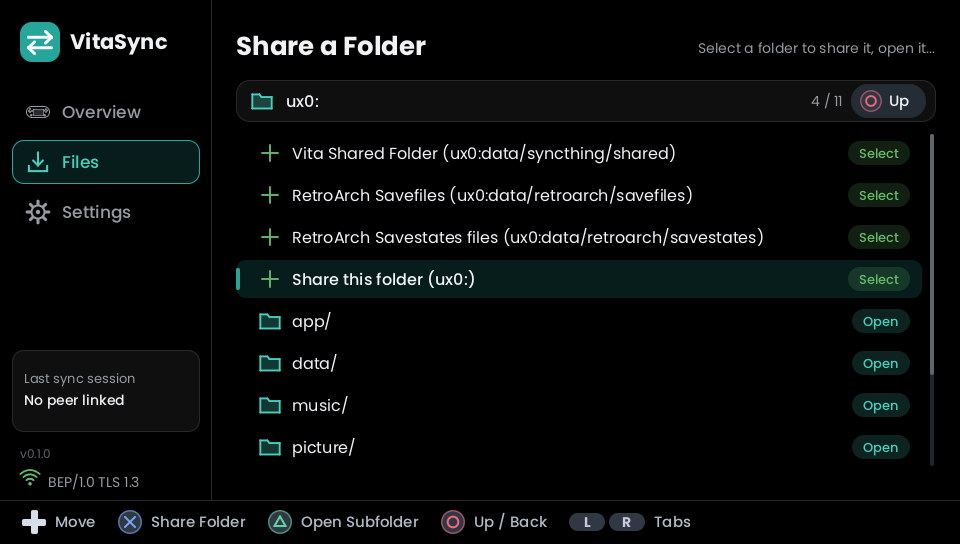
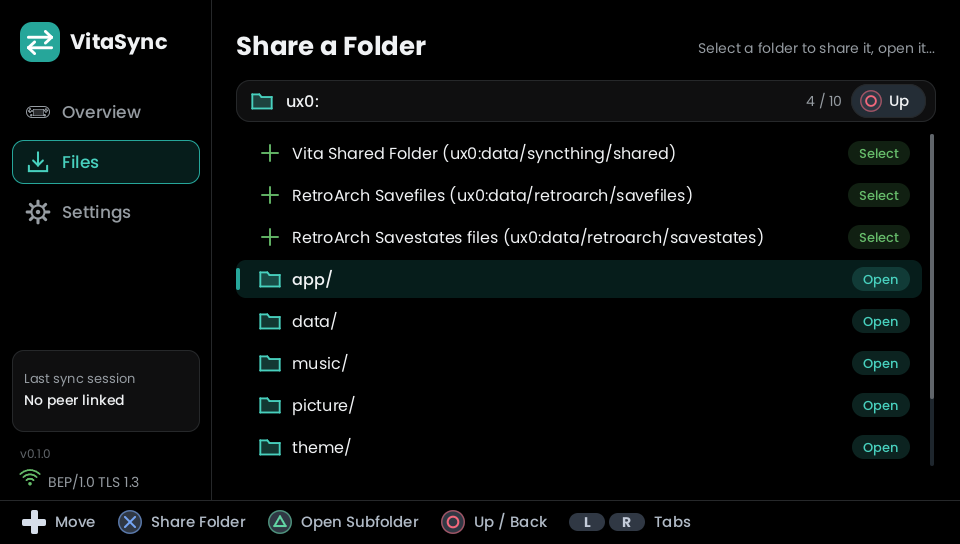
Remove the Files tab 'Share this folder' row
Selecting a folder row already shares it; the presets now open the list.

Claude-Session: https://claude.ai/code/session_015EANpC6fwbccGprydTxXwP

diff --git a/crates/vita-syncthing-app/tests/share_creation.rs b/crates/vita-syncthing-app/tests/share_creation.rs
@@ -74,7 +74,7 @@ fn test_reopening_existing_share_never_discards_it() {
 #[test]
 fn test_selecting_a_folder_in_files_tab_starts_share_creation() {
     use vita_syncthing_app::domain::{ActiveTab, PickerMode};
-    use vita_syncthing_app::infrastructure::{BTN_DOWN, BTN_R, BTN_RIGHT};
+    use vita_syncthing_app::infrastructure::{BTN_R, BTN_RIGHT};
 
     let dir = temp_test_dir("files-tab-create");
     std::fs::create_dir_all(format!("{}/saves", dir)).unwrap();
@@ -85,13 +85,12 @@ fn test_selecting_a_folder_in_files_tab_starts_share_creation() {
     press(&mut state, &repo, BTN_R);
     assert_eq!(state.active_tab, ActiveTab::FolderPicker);
     assert_eq!(state.picker_mode, PickerMode::CreateNewShare);
-    assert_eq!(state.picker_items[1].path, format!("{}/saves", dir));
+    assert_eq!(state.picker_items[0].path, format!("{}/saves", dir));
 
     // Right enters page content from sidebar
     press(&mut state, &repo, BTN_RIGHT);
 
     // Cross on the "saves/" folder opens device linking for a new pending share
-    press(&mut state, &repo, BTN_DOWN);
     press(&mut state, &repo, BTN_CROSS);
     assert_eq!(state.active_tab, ActiveTab::Dashboard);
     assert_eq!(state.shares.len(), 1);
@@ -109,8 +108,6 @@ fn test_selecting_a_folder_in_files_tab_starts_share_creation() {
 #[test]
 fn test_already_shared_folders_are_not_selectable_in_files_tab() {
     use vita_syncthing_app::domain::{ActiveTab, PickerMode};
-    use vita_syncthing_app::infrastructure::BTN_DOWN;
-
     let dir = temp_test_dir("files-tab-shared");
     let repo = ConfigRepository::new(&dir);
     let mut state = AppState::new(Vec::new(), Vec::new(), &dir);
@@ -122,12 +119,10 @@ fn test_already_shared_folders_are_not_selectable_in_files_tab() {
     state.reset_nav_for_tab();
     state.nav.focus = vita_syncthing_app::domain::NavFocus::Content;
     ShareService::refresh_picker_items(&mut state, &repo);
-    assert_eq!(state.picker_items[1].path, saves);
-    assert!(state.picker_items[1].is_shared);
-    assert!(!state.picker_items[0].is_shared);
+    assert_eq!(state.picker_items[0].path, saves);
+    assert!(state.picker_items[0].is_shared);
 
     // Neither selecting nor opening the shared folder does anything
-    press(&mut state, &repo, BTN_DOWN);
     press(&mut state, &repo, BTN_CROSS);
     press(&mut state, &repo, BTN_TRIANGLE);
     assert_eq!(state.modal, ModalDialog::None);
@@ -166,9 +161,10 @@ fn test_default_share_presets_are_listed_first_at_files_root() {
         assert_eq!(item.path, *path);
         assert!(item.is_preset && item.template.is_some() && !item.is_shared);
     }
-    // Then "Share this folder" for the browsed root.
-    assert_eq!(state.picker_items[presets.len()].path, "ux0:");
-    assert!(state.picker_items[presets.len()].template.is_none());
+    // Then the root's subfolders, without a "Share this folder" row.
+    assert!(state.picker_items[presets.len()..]
+        .iter()
+        .all(|i| i.template.is_none() && !i.is_preset));
 
     // Presets are not repeated in subfolders.
     state.picker_current_dir = dir.clone();

diff --git a/crates/vita-syncthing-app/src/ui/i18n/messages.rs b/crates/vita-syncthing-app/src/ui/i18n/messages.rs
@@ -114,8 +114,6 @@ pub struct Messages {
     /// `{label}`, `{path}`.
     pub picker_template: &'static str,
     /// `{path}`.
-    pub picker_share_this_folder: &'static str,
-    /// `{path}`.
     pub picker_keep_current: &'static str,
     /// `{path}`.
     pub picker_save_data: &'static str,
@@ -267,9 +265,6 @@ impl Strings {
             UiText::SharedWith { devices } => fill(m.shared_with, &[("devices", devices)]),
             UiText::PickerTemplate { label, path } => {
                 fill(m.picker_template, &[("label", label), ("path", path)])
-            }
-            UiText::PickerShareThisFolder { path } => {
-                fill(m.picker_share_this_folder, &[("path", path)])
             }
             UiText::PickerKeepCurrent { path } => fill(m.picker_keep_current, &[("path", path)]),
             UiText::PickerSaveData { path } => fill(m.picker_save_data, &[("path", path)]),

diff --git a/crates/vita-syncthing-app/tests/ui_text.rs b/crates/vita-syncthing-app/tests/ui_text.rs
@@ -105,7 +105,6 @@ fn all_messages() -> Vec<UiText> {
             label: s("RetroArch Savefiles"),
             path: s("ux0:"),
         },
-        UiText::PickerShareThisFolder { path: s("ux0:") },
         UiText::PickerKeepCurrent { path: s("ux0:") },
         UiText::PickerSaveData { path: s("ux0:") },
         UiText::PickerPictures { path: s("ux0:") },
@@ -165,8 +164,8 @@ fn test_messages_are_translated_and_parameters_filled() {
         "Langue : Italiano"
     );
     assert_eq!(
-        fr.text(&UiText::PickerShareThisFolder { path: s("ux0:") }),
-        "Partager ce dossier (ux0:)"
+        fr.text(&UiText::PickerKeepCurrent { path: s("ux0:") }),
+        "Garder le dossier actuel (ux0:)"
     );
     // Data is shown as-is in every language
     assert_eq!(fr.text(&UiText::raw("picture/")), "picture/");

diff --git a/crates/vita-syncthing-app/src/application/share_service.rs b/crates/vita-syncthing-app/src/application/share_service.rs
@@ -472,17 +472,7 @@ impl ShareService {
             .unwrap_or_else(|| "ux0:user/00/savedata".to_owned());
 
         let mut items = if state.picker_mode == PickerMode::CreateNewShare {
-            let mut items = Self::unshared_template_items(state);
-            items.push(PickerItem {
-                label: UiText::PickerShareThisFolder {
-                    path: state.picker_current_dir.clone(),
-                },
-                path: state.picker_current_dir.clone(),
-                is_preset: true,
-                template: None,
-                is_shared: false,
-            });
-            items
+            Self::unshared_template_items(state)
         } else {
             vec![
                 PickerItem {

diff --git a/crates/vita-syncthing-app/src/ui/i18n/es.rs b/crates/vita-syncthing-app/src/ui/i18n/es.rs
@@ -272,7 +272,6 @@ pub static MESSAGES_ES: Messages = Messages {
     no_devices_linked: "Ningún dispositivo vinculado (Cruz para añadir uno)",
     shared_with: "Compartida con: {devices}",
     picker_template: "{label} ({path})",
-    picker_share_this_folder: "Compartir esta carpeta ({path})",
     picker_keep_current: "Mantener la carpeta actual ({path})",
     picker_save_data: "Datos guardados ({path})",
     picker_pictures: "Imágenes de PS Vita ({path})",

diff --git a/crates/vita-syncthing-app/src/ui/i18n/it.rs b/crates/vita-syncthing-app/src/ui/i18n/it.rs
@@ -274,7 +274,6 @@ pub static MESSAGES_IT: Messages = Messages {
     no_devices_linked: "Nessun dispositivo collegato (Croce per aggiungerne uno)",
     shared_with: "Condivisa con: {devices}",
     picker_template: "{label} ({path})",
-    picker_share_this_folder: "Condividi questa cartella ({path})",
     picker_keep_current: "Mantieni la cartella attuale ({path})",
     picker_save_data: "Salvataggi ({path})",
     picker_pictures: "Immagini PS Vita ({path})",

diff --git a/crates/vita-syncthing-app/src/ui/i18n/fr.rs b/crates/vita-syncthing-app/src/ui/i18n/fr.rs
@@ -276,7 +276,6 @@ pub static MESSAGES_FR: Messages = Messages {
     no_devices_linked: "Aucun appareil lié (Croix pour ajouter un appareil)",
     shared_with: "Partagé avec : {devices}",
     picker_template: "{label} ({path})",
-    picker_share_this_folder: "Partager ce dossier ({path})",
     picker_keep_current: "Garder le dossier actuel ({path})",
     picker_save_data: "Sauvegardes ({path})",
     picker_pictures: "Images PS Vita ({path})",

diff --git a/crates/vita-syncthing-app/src/ui/i18n/de.rs b/crates/vita-syncthing-app/src/ui/i18n/de.rs
@@ -271,7 +271,6 @@ pub static MESSAGES_DE: Messages = Messages {
     no_devices_linked: "Keine Geräte verknüpft (Kreuz zum Hinzufügen)",
     shared_with: "Geteilt mit: {devices}",
     picker_template: "{label} ({path})",
-    picker_share_this_folder: "Diesen Ordner freigeben ({path})",
     picker_keep_current: "Aktuellen Ordner behalten ({path})",
     picker_save_data: "Spielstände ({path})",
     picker_pictures: "PS Vita-Bilder ({path})",

diff --git a/crates/vita-syncthing-app/src/ui/i18n/en.rs b/crates/vita-syncthing-app/src/ui/i18n/en.rs
@@ -274,7 +274,6 @@ pub static MESSAGES_EN: Messages = Messages {
     no_devices_linked: "No devices linked (press Cross to add a device)",
     shared_with: "Shared with: {devices}",
     picker_template: "{label} ({path})",
-    picker_share_this_folder: "Share this folder ({path})",
     picker_keep_current: "Keep current folder ({path})",
     picker_save_data: "Save Data ({path})",
     picker_pictures: "PS Vita Pictures ({path})",

diff --git a/crates/vita-syncthing-app/src/domain/ui_text.rs b/crates/vita-syncthing-app/src/domain/ui_text.rs
@@ -156,9 +156,6 @@ pub enum UiText {
         label: String,
         path: String,
     },
-    PickerShareThisFolder {
-        path: String,
-    },
     PickerKeepCurrent {
         path: String,
     },
